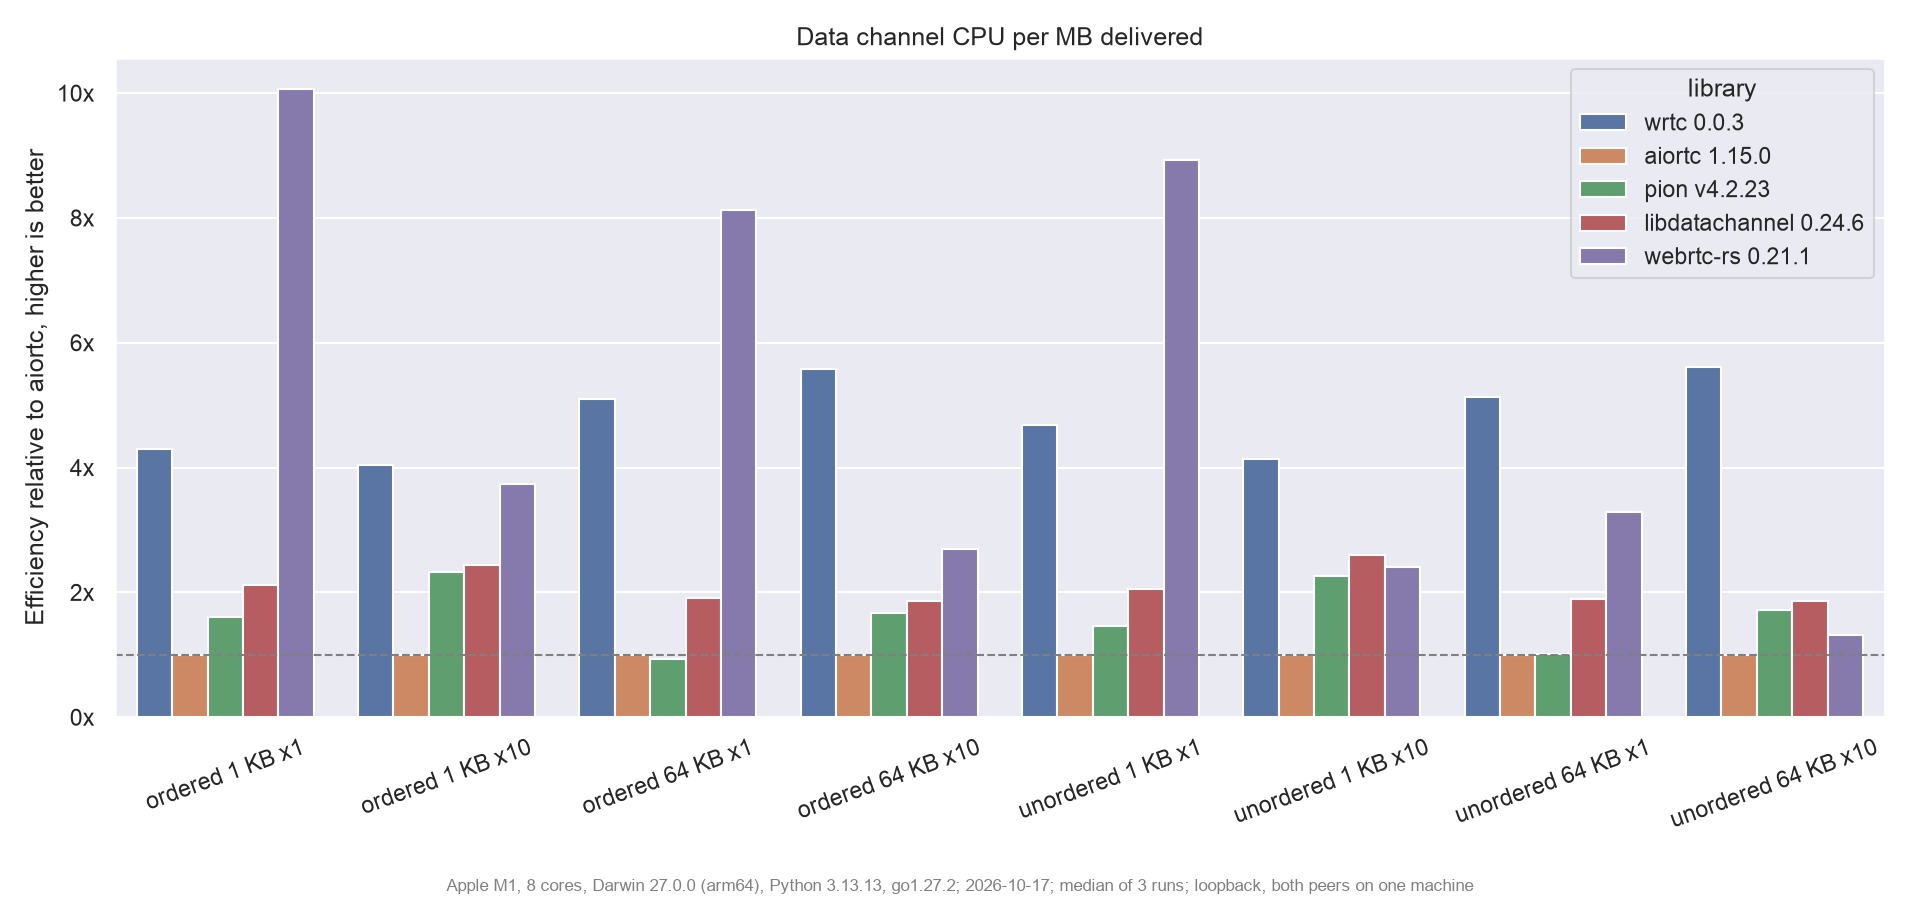
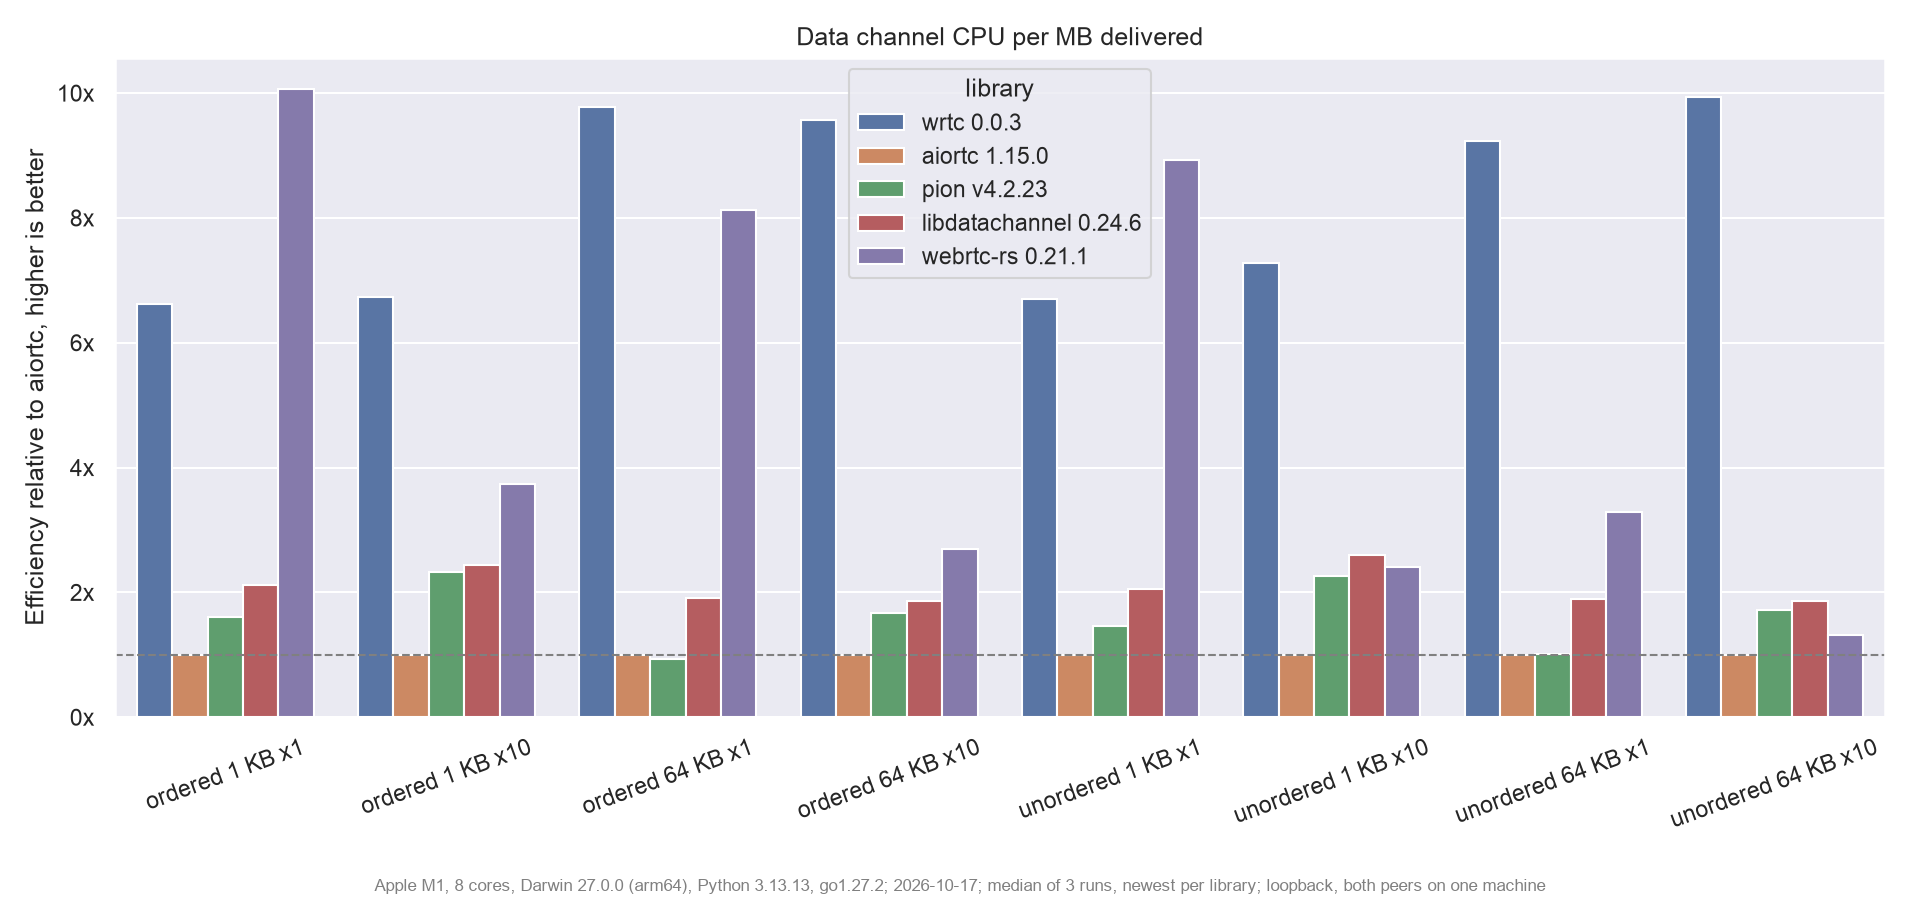
Update benchmarks, fix typing

diff --git a/python-webrtc/python/webrtc/utils/loops.py b/python-webrtc/python/webrtc/utils/loops.py
@@ -28,19 +28,19 @@ from webrtc.utils import lifetime
 if TYPE_CHECKING:
     from collections.abc import Generator
 
-    from typing_extensions import Concatenate, Never, ParamSpec
+    from typing_extensions import Concatenate, Never, ParamSpec, TypeAlias
 
     from webrtc.base import WebRTCObject
     from webrtc.utils.events import EventTarget
 
     _P = ParamSpec('_P')
 
-_T = TypeVar('_T')
+    #: (event name, token, failed, args with the native object first)
+    _EventRecord: TypeAlias = tuple[str, int, bool, tuple[object, ...]]
+    #: an event record, or a marker or completion record: (None, token, failed, args or None)
+    _Record: TypeAlias = _EventRecord | tuple[None, int, bool, tuple[object, ...] | None]
 
-#: (event name, token, failed, args with the native object first)
-_EventRecord = tuple[str, int, bool, tuple[object, ...]]
-#: an event record, or a marker or completion record: (None, token, failed, args or None)
-_Record = _EventRecord | tuple[None, int, bool, 'tuple[object, ...] | None']
+_T = TypeVar('_T')
 
 
 class _Item(NamedTuple):

diff --git a/benchmarks/RESULTS.md b/benchmarks/RESULTS.md
@@ -2,7 +2,13 @@
 
 Medians; % columns are of aiortc's. How: [README](README.md#method).
 
-2026-10-17, 3 runs a case, Apple M1, 8 cores, Darwin 27.0.0 (arm64), Python 3.13.13, go1.27.2, commit 908dd26 with uncommitted changes.
+| Suite | Libraries | Date | Runs | Machine | Commit |
+| --- | --- | --- | --- | --- | --- |
+| setup | wrtc, aiortc, pion, libdatachannel, webrtc-rs | 2026-10-17 | 3 | Apple M1, 8 cores, Darwin 27.0.0 (arm64), Python 3.13.13, go1.27.2 | 908dd26 with uncommitted changes |
+| datachannel | aiortc, pion, libdatachannel, webrtc-rs | 2026-10-17 | 3 | Apple M1, 8 cores, Darwin 27.0.0 (arm64), Python 3.13.13, go1.27.2 | 908dd26 with uncommitted changes |
+| datachannel | wrtc | 2026-10-17 | 3 | Apple M1, 8 cores, Darwin 27.0.0 (arm64), Python 3.13.13, go1.27.2 | 621d5be with uncommitted changes |
+| memory | wrtc, aiortc, pion, libdatachannel, webrtc-rs | 2026-10-17 | 3 | Apple M1, 8 cores, Darwin 27.0.0 (arm64), Python 3.13.13, go1.27.2 | 908dd26 with uncommitted changes |
+| media | wrtc, aiortc | 2026-10-17 | 3 | Apple M1, 8 cores, Darwin 27.0.0 (arm64), Python 3.13.13, go1.27.2 | 908dd26 with uncommitted changes |
 
 ## Connection setup
 
@@ -67,27 +73,27 @@ Medians; % columns are of aiortc's. How: [README](README.md#method).
 
 | Flood | wrtc 0.0.3 | aiortc 1.15.0 | pion v4.2.23 | libdatachannel 0.24.6 | webrtc-rs 0.21.1 | wrtc, % of aiortc | pion, % of aiortc | libdatachannel, % of aiortc | webrtc-rs, % of aiortc |
 | --- | --- | --- | --- | --- | --- | --- | --- | --- | --- |
-| ordered 1 KB x1 | 758 | 90 | 517 | 478 | 684 | 844% | 575% | 532% | 762% |
-| ordered 1 KB x10 | 738 | 95 | 1058 | 1039 | 1260 | 779% | 1117% | 1097% | 1330% |
-| ordered 64 KB x1 | 1049 | 183 | 485 | 653 | 1618 | 573% | 265% | 357% | 885% |
-| ordered 64 KB x10 | 1063 | 241 | 1135 | 1152 | 1307 | 440% | 470% | 477% | 541% |
-| unordered 1 KB x1 | 821 | 89 | 464 | 472 | 1185 | 919% | 519% | 528% | 1326% |
-| unordered 1 KB x10 | 755 | 95 | 1037 | 1046 | 808 | 796% | 1093% | 1103% | 852% |
-| unordered 64 KB x1 | 1088 | 192 | 544 | 650 | 459 | 566% | 283% | 338% | 239% |
-| unordered 64 KB x10 | 1050 | 241 | 1137 | 1164 | 720 | 435% | 471% | 482% | 298% |
+| ordered 1 KB x1 | 1215 | 90 | 517 | 478 | 684 | 1353% | 575% | 532% | 762% |
+| ordered 1 KB x10 | 1282 | 95 | 1058 | 1039 | 1260 | 1353% | 1117% | 1097% | 1330% |
+| ordered 64 KB x1 | 2071 | 183 | 485 | 653 | 1618 | 1133% | 265% | 357% | 885% |
+| ordered 64 KB x10 | 1865 | 241 | 1135 | 1152 | 1307 | 772% | 470% | 477% | 541% |
+| unordered 1 KB x1 | 1232 | 89 | 464 | 472 | 1185 | 1379% | 519% | 528% | 1326% |
+| unordered 1 KB x10 | 1385 | 95 | 1037 | 1046 | 808 | 1460% | 1093% | 1103% | 852% |
+| unordered 64 KB x1 | 2035 | 192 | 544 | 650 | 459 | 1059% | 283% | 338% | 239% |
+| unordered 64 KB x10 | 1915 | 241 | 1137 | 1164 | 720 | 793% | 471% | 482% | 298% |
 
 ### Message rate (messages/s)
 
 | Flood | wrtc 0.0.3 | aiortc 1.15.0 | pion v4.2.23 | libdatachannel 0.24.6 | webrtc-rs 0.21.1 | wrtc, % of aiortc | pion, % of aiortc | libdatachannel, % of aiortc | webrtc-rs, % of aiortc |
 | --- | --- | --- | --- | --- | --- | --- | --- | --- | --- |
-| ordered 1 KB x1 | 92568 | 10964 | 63078 | 58348 | 83512 | 844% | 575% | 532% | 762% |
-| ordered 1 KB x10 | 90030 | 11562 | 129161 | 126857 | 153778 | 779% | 1117% | 1097% | 1330% |
-| ordered 64 KB x1 | 2000 | 349 | 926 | 1245 | 3087 | 573% | 265% | 357% | 885% |
-| ordered 64 KB x10 | 2027 | 461 | 2165 | 2197 | 2492 | 440% | 470% | 477% | 541% |
-| unordered 1 KB x1 | 100231 | 10904 | 56647 | 57566 | 144599 | 919% | 519% | 528% | 1326% |
-| unordered 1 KB x10 | 92192 | 11578 | 126573 | 127670 | 98637 | 796% | 1093% | 1103% | 852% |
-| unordered 64 KB x1 | 2075 | 367 | 1038 | 1240 | 876 | 566% | 283% | 338% | 239% |
-| unordered 64 KB x10 | 2002 | 461 | 2169 | 2221 | 1374 | 435% | 471% | 482% | 298% |
+| ordered 1 KB x1 | 148350 | 10964 | 63078 | 58348 | 83512 | 1353% | 575% | 532% | 762% |
+| ordered 1 KB x10 | 156464 | 11562 | 129161 | 126857 | 153778 | 1353% | 1117% | 1097% | 1330% |
+| ordered 64 KB x1 | 3951 | 349 | 926 | 1245 | 3087 | 1133% | 265% | 357% | 885% |
+| ordered 64 KB x10 | 3557 | 461 | 2165 | 2197 | 2492 | 772% | 470% | 477% | 541% |
+| unordered 1 KB x1 | 150376 | 10904 | 56647 | 57566 | 144599 | 1379% | 519% | 528% | 1326% |
+| unordered 1 KB x10 | 169038 | 11578 | 126573 | 127670 | 98637 | 1460% | 1093% | 1103% | 852% |
+| unordered 64 KB x1 | 3882 | 367 | 1038 | 1240 | 876 | 1059% | 283% | 338% | 239% |
+| unordered 64 KB x10 | 3652 | 461 | 2169 | 2221 | 1374 | 793% | 471% | 482% | 298% |
 
 ### CPU per MB delivered, both processes (ms)
 
@@ -95,20 +101,20 @@ Medians; % columns are of aiortc's. How: [README](README.md#method).
 
 | Flood | wrtc 0.0.3 | aiortc 1.15.0 | pion v4.2.23 | libdatachannel 0.24.6 | webrtc-rs 0.21.1 | wrtc, % of aiortc | pion, % of aiortc | libdatachannel, % of aiortc | webrtc-rs, % of aiortc |
 | --- | --- | --- | --- | --- | --- | --- | --- | --- | --- |
-| ordered 1 KB x1 | 31 | 132 | 82 | 62 | 13 | 23% | 62% | 47% | 10% |
-| ordered 1 KB x10 | 31 | 127 | 54 | 52 | 34 | 25% | 43% | 41% | 27% |
-| ordered 64 KB x1 | 15 | 78 | 83 | 41 | 10 | 20% | 107% | 52% | 12% |
-| ordered 64 KB x10 | 15 | 85 | 51 | 46 | 31 | 18% | 60% | 54% | 37% |
-| unordered 1 KB x1 | 28 | 131 | 90 | 64 | 15 | 21% | 68% | 49% | 11% |
-| unordered 1 KB x10 | 31 | 126 | 56 | 49 | 53 | 24% | 44% | 38% | 42% |
-| unordered 64 KB x1 | 15 | 76 | 75 | 40 | 23 | 19% | 99% | 53% | 30% |
-| unordered 64 KB x10 | 15 | 86 | 50 | 46 | 66 | 18% | 58% | 54% | 76% |
+| ordered 1 KB x1 | 20 | 132 | 82 | 62 | 13 | 15% | 62% | 47% | 10% |
+| ordered 1 KB x10 | 19 | 127 | 54 | 52 | 34 | 15% | 43% | 41% | 27% |
+| ordered 64 KB x1 | 8 | 78 | 83 | 41 | 10 | 10% | 107% | 52% | 12% |
+| ordered 64 KB x10 | 9 | 85 | 51 | 46 | 31 | 10% | 60% | 54% | 37% |
+| unordered 1 KB x1 | 20 | 131 | 90 | 64 | 15 | 15% | 68% | 49% | 11% |
+| unordered 1 KB x10 | 17 | 126 | 56 | 49 | 53 | 14% | 44% | 38% | 42% |
+| unordered 64 KB x1 | 8 | 76 | 75 | 40 | 23 | 11% | 99% | 53% | 30% |
+| unordered 64 KB x10 | 9 | 86 | 50 | 46 | 66 | 10% | 58% | 54% | 76% |
 
 ### Round trip of 1 KB messages at 100 a second
 
 | Library | RTT p50 / p95 (ms) | Lost | p50, % of aiortc |
 | --- | --- | --- | --- |
-| wrtc 0.0.3 | 0.7 / 1.2 | 0 | 62% |
+| wrtc 0.0.3 | 0.6 / 0.8 | 0 | 48% |
 | aiortc 1.15.0 | 1.2 / 1.7 | 0 | 100% |
 | pion v4.2.23 | 0.5 / 0.9 | 0 | 46% |
 | libdatachannel 0.24.6 | 0.5 / 0.7 | 0 | 39% |
